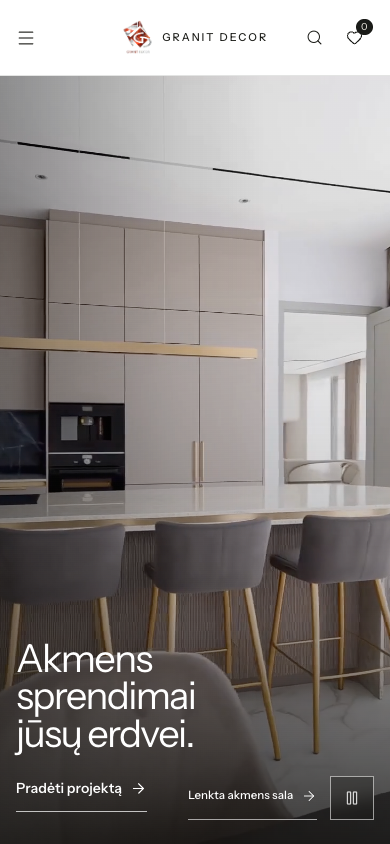
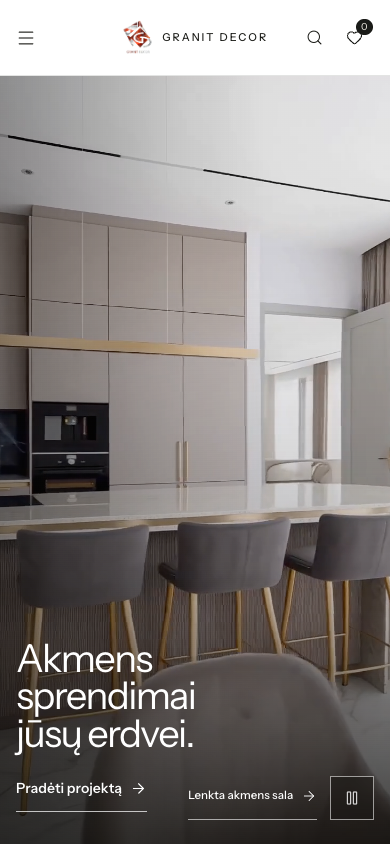
Polish narrow mobile hero actions

diff --git a/src/styles/pages.css b/src/styles/pages.css
@@ -1562,3 +1562,14 @@
     gap: var(--space-7);
   }
 }
+
+@media (max-width: 22rem) and (orientation: portrait) {
+  .home-hero--cinematic .home-hero__copy {
+    right: var(--space-gutter);
+    bottom: calc(env(safe-area-inset-bottom) + 6rem);
+  }
+
+  .home-hero__text-action {
+    margin-top: var(--space-4);
+  }
+}

diff --git a/.migration/qa/final_browser_qa.py b/.migration/qa/final_browser_qa.py
@@ -162,6 +162,25 @@ def check_home_video(page, viewport_name: str) -> None:
         playback_button.get_attribute("aria-label") if playback_button.count() else None,
     )
 
+    primary_action = page.locator(".home-hero__text-action")
+    secondary_action = page.locator(".home-hero__project")
+    if primary_action.count() == 1 and secondary_action.count() == 1 and secondary_action.is_visible():
+        primary_box = element_box(page, ".home-hero__text-action")
+        secondary_box = element_box(page, ".home-hero__project")
+        overlaps = bool(
+            primary_box
+            and secondary_box
+            and primary_box["left"] < secondary_box["right"]
+            and primary_box["right"] > secondary_box["left"]
+            and primary_box["top"] < secondary_box["bottom"]
+            and primary_box["bottom"] > secondary_box["top"]
+        )
+        record(
+            f"{viewport_name}: hero actions do not overlap",
+            not overlaps,
+            {"primary": primary_box, "secondary": secondary_box},
+        )
+
 
 def check_desktop_navigation(page) -> None:
     nav = page.locator(".site-header__nav")

diff --git a/.migration/qa/final-browser-qa.md b/.migration/qa/final-browser-qa.md
@@ -1,8 +1,8 @@
 # Final browser QA
 
 - Base URL: `http://127.0.0.1:4173`
-- Checks: 79
-- Passed: 79
+- Checks: 83
+- Passed: 83
 - Failed: 0
 - Console warnings/errors captured: 0
 - Request failures captured: 88
@@ -13,10 +13,11 @@
 - **PASS** — desktop home: no document horizontal overflow — {"viewportWidth": 1440, "viewportHeight": 900, "documentWidth": 1440, "bodyWidth": 1440, "overflow": false}
 - **PASS** — desktop home: visible H1 — {"count": 1, "text": "Akmens sprendimai\njūsų erdvei."}
 - **PASS** — desktop: hero video exists — 1
-- **PASS** — desktop: correct hero source selected — {"autoplay": true, "muted": true, "loop": true, "playsInline": true, "paused": false, "currentTime": 3.220758, "currentSrc": "http://127.0.0.1:4173/assets/video/granit-decor-kitchen-orbit-v2-desktop-2560.mp4", "readyState": 4, "networkState": 1, "videoWidth": 2560, "videoHeight": 1440, "error": null}
-- **PASS** — desktop: hero autoplay is active — {"autoplay": true, "muted": true, "loop": true, "playsInline": true, "paused": false, "currentTime": 3.220758, "currentSrc": "http://127.0.0.1:4173/assets/video/granit-decor-kitchen-orbit-v2-desktop-2560.mp4", "readyState": 4, "networkState": 1, "videoWidth": 2560, "videoHeight": 1440, "error": null}
+- **PASS** — desktop: correct hero source selected — {"autoplay": true, "muted": true, "loop": true, "playsInline": true, "paused": false, "currentTime": 3.268783, "currentSrc": "http://127.0.0.1:4173/assets/video/granit-decor-kitchen-orbit-v2-desktop-2560.mp4", "readyState": 4, "networkState": 1, "videoWidth": 2560, "videoHeight": 1440, "error": null}
+- **PASS** — desktop: hero autoplay is active — {"autoplay": true, "muted": true, "loop": true, "playsInline": true, "paused": false, "currentTime": 3.268783, "currentSrc": "http://127.0.0.1:4173/assets/video/granit-decor-kitchen-orbit-v2-desktop-2560.mp4", "readyState": 4, "networkState": 1, "videoWidth": 2560, "videoHeight": 1440, "error": null}
 - **PASS** — desktop: hero media fills first viewport width — {"hero": {"x": 0, "y": 118, "width": 1440, "height": 782, "top": 118, "right": 1440, "bottom": 900, "left": 0}, "video": {"x": 0, "y": 118, "width": 1440, "height": 782, "top": 118, "right": 1440, "bottom": 900, "left": 0}, "viewport": {"viewportWidth": 1440, "viewportHeight": 900, "documentWidth": 1440, "bodyWidth": 1440, "overflow": false}}
 - **PASS** — desktop: playback control is visible and named — Sustabdyti animaciją
+- **PASS** — desktop: hero actions do not overlap — {"primary": {"x": 46.078125, "y": 818.515625, "width": 131.03125, "height": 32.890625, "top": 818.515625, "right": 177.109375, "bottom": 851.40625, "left": 46.078125}, "secondary": {"x": 1179.890625, "y": 817.875, "width": 153.234375, "height": 33.53125, "top": 817.875, "right": 1333.125, "bottom": 851.40625, "left": 1179.890625}}
 - **PASS** — desktop: primary navigation visible — 1
 - **PASS** — desktop: Gaminiai dropdown pins and remains selectable — {"images": 8, "loadedImages": 8}
 - **PASS** — desktop: Gaminiai dropdown images loaded — {"images": 8, "loadedImages": 8}
@@ -30,10 +31,11 @@
 - **PASS** — tablet home: no document horizontal overflow — {"viewportWidth": 768, "viewportHeight": 1024, "documentWidth": 768, "bodyWidth": 768, "overflow": false}
 - **PASS** — tablet home: visible H1 — {"count": 1, "text": "Akmens sprendimai\njūsų erdvei."}
 - **PASS** — tablet: hero video exists — 1
-- **PASS** — tablet: correct hero source selected — {"autoplay": true, "muted": true, "loop": true, "playsInline": true, "paused": false, "currentTime": 3.059469, "currentSrc": "http://127.0.0.1:4173/assets/video/granit-decor-kitchen-orbit-v3-mobile-parity-810x1440.mp4", "readyState": 4, "networkState": 1, "videoWidth": 810, "videoHeight": 1440, "error": null}
-- **PASS** — tablet: hero autoplay is active — {"autoplay": true, "muted": true, "loop": true, "playsInline": true, "paused": false, "currentTime": 3.059469, "currentSrc": "http://127.0.0.1:4173/assets/video/granit-decor-kitchen-orbit-v3-mobile-parity-810x1440.mp4", "readyState": 4, "networkState": 1, "videoWidth": 810, "videoHeight": 1440, "error": null}
+- **PASS** — tablet: correct hero source selected — {"autoplay": true, "muted": true, "loop": true, "playsInline": true, "paused": false, "currentTime": 3.21512, "currentSrc": "http://127.0.0.1:4173/assets/video/granit-decor-kitchen-orbit-v3-mobile-parity-810x1440.mp4", "readyState": 4, "networkState": 1, "videoWidth": 810, "videoHeight": 1440, "error": null}
+- **PASS** — tablet: hero autoplay is active — {"autoplay": true, "muted": true, "loop": true, "playsInline": true, "paused": false, "currentTime": 3.21512, "currentSrc": "http://127.0.0.1:4173/assets/video/granit-decor-kitchen-orbit-v3-mobile-parity-810x1440.mp4", "readyState": 4, "networkState": 1, "videoWidth": 810, "videoHeight": 1440, "error": null}
 - **PASS** — tablet: hero media fills first viewport width — {"hero": {"x": 0, "y": 76, "width": 768, "height": 948, "top": 76, "right": 768, "bottom": 1024, "left": 0}, "video": {"x": 0, "y": 76, "width": 768, "height": 948, "top": 76, "right": 768, "bottom": 1024, "left": 0}, "viewport": {"viewportWidth": 768, "viewportHeight": 1024, "documentWidth": 768, "bodyWidth": 768, "overflow": false}}
 - **PASS** — tablet: playback control is visible and named — Sustabdyti animaciją
+- **PASS** — tablet: hero actions do not overlap — {"primary": {"x": 19.1875, "y": 939.921875, "width": 131.03125, "height": 32.890625, "top": 939.921875, "right": 150.21875, "bottom": 972.8125, "left": 19.1875}, "secondary": {"x": 534.765625, "y": 939.28125, "width": 153.234375, "height": 33.53125, "top": 939.28125, "right": 688, "bottom": 972.8125, "left": 534.765625}}
 - **PASS** — tablet: menu button visible — 1
 - **PASS** — tablet: mobile menu opens — dialog.open
 - **PASS** — tablet: Gaminiai submenu has compact visual guidance — {"section": "Gaminiai", "tiles": 8, "images": 8, "loadedImages": 8}
@@ -43,10 +45,11 @@
 - **PASS** — mobile home: no document horizontal overflow — {"viewportWidth": 390, "viewportHeight": 844, "documentWidth": 390, "bodyWidth": 390, "overflow": false}
 - **PASS** — mobile home: visible H1 — {"count": 1, "text": "Akmens sprendimai\njūsų erdvei."}
 - **PASS** — mobile: hero video exists — 1
-- **PASS** — mobile: correct hero source selected — {"autoplay": true, "muted": true, "loop": true, "playsInline": true, "paused": false, "currentTime": 3.203043, "currentSrc": "http://127.0.0.1:4173/assets/video/granit-decor-kitchen-orbit-v3-mobile-parity-810x1440.mp4", "readyState": 4, "networkState": 1, "videoWidth": 810, "videoHeight": 1440, "error": null}
-- **PASS** — mobile: hero autoplay is active — {"autoplay": true, "muted": true, "loop": true, "playsInline": true, "paused": false, "currentTime": 3.203043, "currentSrc": "http://127.0.0.1:4173/assets/video/granit-decor-kitchen-orbit-v3-mobile-parity-810x1440.mp4", "readyState": 4, "networkState": 1, "videoWidth": 810, "videoHeight": 1440, "error": null}
+- **PASS** — mobile: correct hero source selected — {"autoplay": true, "muted": true, "loop": true, "playsInline": true, "paused": false, "currentTime": 3.379136, "currentSrc": "http://127.0.0.1:4173/assets/video/granit-decor-kitchen-orbit-v3-mobile-parity-810x1440.mp4", "readyState": 4, "networkState": 1, "videoWidth": 810, "videoHeight": 1440, "error": null}
+- **PASS** — mobile: hero autoplay is active — {"autoplay": true, "muted": true, "loop": true, "playsInline": true, "paused": false, "currentTime": 3.379136, "currentSrc": "http://127.0.0.1:4173/assets/video/granit-decor-kitchen-orbit-v3-mobile-parity-810x1440.mp4", "readyState": 4, "networkState": 1, "videoWidth": 810, "videoHeight": 1440, "error": null}
 - **PASS** — mobile: hero media fills first viewport width — {"hero": {"x": 0, "y": 76, "width": 390, "height": 768, "top": 76, "right": 390, "bottom": 844, "left": 0}, "video": {"x": 0, "y": 76, "width": 390, "height": 768, "top": 76, "right": 390, "bottom": 844, "left": 0}, "viewport": {"viewportWidth": 390, "viewportHeight": 844, "documentWidth": 390, "bodyWidth": 390, "overflow": false}}
 - **PASS** — mobile: playback control is visible and named — Sustabdyti animaciją
+- **PASS** — mobile: hero actions do not overlap — {"primary": {"x": 16, "y": 768, "width": 131.03125, "height": 44, "top": 768, "right": 147.03125, "bottom": 812, "left": 16}, "secondary": {"x": 188.25, "y": 776, "width": 128.953125, "height": 44, "top": 776, "right": 317.203125, "bottom": 820, "left": 188.25}}
 - **PASS** — mobile: menu button visible — 1
 - **PASS** — mobile: mobile menu opens — dialog.open
 - **PASS** — mobile: Gaminiai submenu has compact visual guidance — {"section": "Gaminiai", "tiles": 8, "images": 8, "loadedImages": 8}
@@ -56,10 +59,11 @@
 - **PASS** — narrow home: no document horizontal overflow — {"viewportWidth": 320, "viewportHeight": 700, "documentWidth": 320, "bodyWidth": 320, "overflow": false}
 - **PASS** — narrow home: visible H1 — {"count": 1, "text": "Akmens sprendimai\njūsų erdvei."}
 - **PASS** — narrow: hero video exists — 1
-- **PASS** — narrow: correct hero source selected — {"autoplay": true, "muted": true, "loop": true, "playsInline": true, "paused": false, "currentTime": 2.891371, "currentSrc": "http://127.0.0.1:4173/assets/video/granit-decor-kitchen-orbit-v3-mobile-parity-810x1440.mp4", "readyState": 4, "networkState": 1, "videoWidth": 810, "videoHeight": 1440, "error": null}
-- **PASS** — narrow: hero autoplay is active — {"autoplay": true, "muted": true, "loop": true, "playsInline": true, "paused": false, "currentTime": 2.891371, "currentSrc": "http://127.0.0.1:4173/assets/video/granit-decor-kitchen-orbit-v3-mobile-parity-810x1440.mp4", "readyState": 4, "networkState": 1, "videoWidth": 810, "videoHeight": 1440, "error": null}
+- **PASS** — narrow: correct hero source selected — {"autoplay": true, "muted": true, "loop": true, "playsInline": true, "paused": false, "currentTime": 3.213894, "currentSrc": "http://127.0.0.1:4173/assets/video/granit-decor-kitchen-orbit-v3-mobile-parity-810x1440.mp4", "readyState": 4, "networkState": 1, "videoWidth": 810, "videoHeight": 1440, "error": null}
+- **PASS** — narrow: hero autoplay is active — {"autoplay": true, "muted": true, "loop": true, "playsInline": true, "paused": false, "currentTime": 3.213894, "currentSrc": "http://127.0.0.1:4173/assets/video/granit-decor-kitchen-orbit-v3-mobile-parity-810x1440.mp4", "readyState": 4, "networkState": 1, "videoWidth": 810, "videoHeight": 1440, "error": null}
 - **PASS** — narrow: hero media fills first viewport width — {"hero": {"x": 0, "y": 76, "width": 320, "height": 624, "top": 76, "right": 320, "bottom": 700, "left": 0}, "video": {"x": 0, "y": 76, "width": 320, "height": 624, "top": 76, "right": 320, "bottom": 700, "left": 0}, "viewport": {"viewportWidth": 320, "viewportHeight": 700, "documentWidth": 320, "bodyWidth": 320, "overflow": false}}
 - **PASS** — narrow: playback control is visible and named — Sustabdyti animaciją
+- **PASS** — narrow: hero actions do not overlap — {"primary": {"x": 16, "y": 560, "width": 131.03125, "height": 44, "top": 560, "right": 147.03125, "bottom": 604, "left": 16}, "secondary": {"x": 118.25, "y": 632, "width": 128.953125, "height": 44, "top": 632, "right": 247.203125, "bottom": 676, "left": 118.25}}
 - **PASS** — narrow: menu button visible — 1
 - **PASS** — narrow: mobile menu opens — dialog.open
 - **PASS** — narrow: Gaminiai submenu has compact visual guidance — {"section": "Gaminiai", "tiles": 8, "images": 8, "loadedImages": 8}
@@ -103,8 +107,8 @@ PDF · 1 KB
 - `desktop` HEAD http://127.0.0.1:4173/projektas/ — net::ERR_ABORTED
 - `desktop` HEAD http://127.0.0.1:4173/projektai/ — net::ERR_ABORTED
 - `desktop` HEAD http://127.0.0.1:4173/gaminiai/virtuves-stalvirsiai/ — net::ERR_ABORTED
-- `desktop` HEAD http://127.0.0.1:4173/gaminiai/vonios-stalvirsiai/ — net::ERR_ABORTED
 - `desktop` HEAD http://127.0.0.1:4173/gaminiai/zidiniu-apdaila/ — net::ERR_ABORTED
+- `desktop` HEAD http://127.0.0.1:4173/gaminiai/vonios-stalvirsiai/ — net::ERR_ABORTED
 - `desktop` HEAD http://127.0.0.1:4173/gaminiai/sienu-apdaila/ — net::ERR_ABORTED
 - `desktop` HEAD http://127.0.0.1:4173/gaminiai/ — net::ERR_ABORTED
 - `desktop` HEAD http://127.0.0.1:4173/akmuo/?tipas=granitas — net::ERR_ABORTED
@@ -113,8 +117,8 @@ PDF · 1 KB
 - `desktop` HEAD http://127.0.0.1:4173/akmuo/?tipas=oniksas — net::ERR_ABORTED
 - `desktop` HEAD http://127.0.0.1:4173/akmuo/ — net::ERR_ABORTED
 - `desktop` HEAD http://127.0.0.1:4173/projektai/granit-decor-darbai-25/ — net::ERR_ABORTED
-- `desktop` HEAD http://127.0.0.1:4173/projektai/granit-decor-darbai-03/ — net::ERR_ABORTED
 - `desktop` HEAD http://127.0.0.1:4173/projektai/granit-decor-darbai-30/ — net::ERR_ABORTED
+- `desktop` HEAD http://127.0.0.1:4173/projektai/granit-decor-darbai-03/ — net::ERR_ABORTED
 - `desktop` HEAD http://127.0.0.1:4173/projektai/granit-decor-darbai-24/ — net::ERR_ABORTED
 - `desktop` HEAD http://127.0.0.1:4173/kaip-dirbame/ — net::ERR_ABORTED
 - `tablet` HEAD http://127.0.0.1:4173/ — net::ERR_ABORTED
@@ -128,8 +132,8 @@ PDF · 1 KB
 - `tablet` HEAD http://127.0.0.1:4173/kontaktai/ — net::ERR_ABORTED
 - `tablet` HEAD http://127.0.0.1:4173/memorialai/ — net::ERR_ABORTED
 - `tablet` HEAD http://127.0.0.1:4173/gaminiai/ — net::ERR_ABORTED
-- `tablet` HEAD http://127.0.0.1:4173/akmuo/?tipas=travertinas — net::ERR_ABORTED
 - `tablet` HEAD http://127.0.0.1:4173/akmuo/?tipas=granitas — net::ERR_ABORTED
+- `tablet` HEAD http://127.0.0.1:4173/akmuo/?tipas=travertinas — net::ERR_ABORTED
 - `tablet` HEAD http://127.0.0.1:4173/akmuo/ — net::ERR_ABORTED
 - `tablet` HEAD http://127.0.0.1:4173/akmuo/?rodyti=issaugoti — net::ERR_ABORTED
 - `mobile` HEAD http://127.0.0.1:4173/ — net::ERR_ABORTED
@@ -137,29 +141,29 @@ PDF · 1 KB
 - `mobile` HEAD http://127.0.0.1:4173/projektai/ — net::ERR_ABORTED
 - `mobile` HEAD http://127.0.0.1:4173/gaminiai/virtuves-stalvirsiai/ — net::ERR_ABORTED
 - `mobile` HEAD http://127.0.0.1:4173/gaminiai/vonios-stalvirsiai/ — net::ERR_ABORTED
+- `mobile` HEAD http://127.0.0.1:4173/kontaktai/ — net::ERR_ABORTED
 - `mobile` HEAD http://127.0.0.1:4173/profesionalams/ — net::ERR_ABORTED
 - `mobile` HEAD http://127.0.0.1:4173/apie-mus/ — net::ERR_ABORTED
-- `mobile` HEAD http://127.0.0.1:4173/kontaktai/ — net::ERR_ABORTED
 - `mobile` HEAD http://127.0.0.1:4173/memorialai/ — net::ERR_ABORTED
 - `mobile` HEAD http://127.0.0.1:4173/gaminiai/ — net::ERR_ABORTED
 - `mobile` HEAD http://127.0.0.1:4173/akmuo/?tipas=granitas — net::ERR_ABORTED
-- `mobile` HEAD http://127.0.0.1:4173/akmuo/?tipas=travertinas — net::ERR_ABORTED
 - `mobile` HEAD http://127.0.0.1:4173/akmuo/?tipas=kvarcitas — net::ERR_ABORTED
+- `mobile` HEAD http://127.0.0.1:4173/akmuo/?tipas=travertinas — net::ERR_ABORTED
 - `mobile` HEAD http://127.0.0.1:4173/akmuo/ — net::ERR_ABORTED
 - `narrow` HEAD http://127.0.0.1:4173/ — net::ERR_ABORTED
 - `narrow` HEAD http://127.0.0.1:4173/projektas/ — net::ERR_ABORTED
 - `narrow` HEAD http://127.0.0.1:4173/projektai/ — net::ERR_ABORTED
 - `narrow` HEAD http://127.0.0.1:4173/gaminiai/virtuves-stalvirsiai/ — net::ERR_ABORTED
 - `narrow` HEAD http://127.0.0.1:4173/gaminiai/vonios-stalvirsiai/ — net::ERR_ABORTED
-- `narrow` HEAD http://127.0.0.1:4173/profesionalams/ — net::ERR_ABORTED
-- `narrow` HEAD http://127.0.0.1:4173/apie-mus/ — net::ERR_ABORTED
 - `narrow` HEAD http://127.0.0.1:4173/kontaktai/ — net::ERR_ABORTED
 - `narrow` HEAD http://127.0.0.1:4173/memorialai/ — net::ERR_ABORTED
+- `narrow` HEAD http://127.0.0.1:4173/apie-mus/ — net::ERR_ABORTED
+- `narrow` HEAD http://127.0.0.1:4173/profesionalams/ — net::ERR_ABORTED
 - `narrow` HEAD http://127.0.0.1:4173/gaminiai/ — net::ERR_ABORTED
-- `narrow` HEAD http://127.0.0.1:4173/akmuo/?tipas=granitas — net::ERR_ABORTED
 - `narrow` HEAD http://127.0.0.1:4173/akmuo/?tipas=kvarcitas — net::ERR_ABORTED
-- `narrow` HEAD http://127.0.0.1:4173/akmuo/ — net::ERR_ABORTED
 - `narrow` HEAD http://127.0.0.1:4173/akmuo/?tipas=travertinas — net::ERR_ABORTED
+- `narrow` HEAD http://127.0.0.1:4173/akmuo/?tipas=granitas — net::ERR_ABORTED
+- `narrow` HEAD http://127.0.0.1:4173/akmuo/ — net::ERR_ABORTED
 - `routes-mobile` HEAD http://127.0.0.1:4173/ — net::ERR_ABORTED
 - `routes-mobile` HEAD http://127.0.0.1:4173/akmuo/ — net::ERR_ABORTED
 - `routes-mobile` HEAD http://127.0.0.1:4173/akmuo/?tipas=marmuras — net::ERR_ABORTED

diff --git a/.migration/qa/visual-review.md b/.migration/qa/visual-review.md
@@ -1,0 +1,16 @@
+# Responsive visual review
+
+The post-fix production-browser sweep passed 83 of 83 checks. A separate visual review of the refreshed captures confirms that the narrow hero action collision is resolved without visible regressions at the wider viewports.
+
+## Narrow hero action separation
+
+- Viewport: `320 × 700`
+- Evidence: `home-narrow.png`
+- The primary action (`Pradėti projektą`) now occupies an upper row and the secondary project caption (`Lenkta akmens sala`) occupies a distinct lower row beside the playback control.
+- Measured primary bounds: `x 16–147`, `y 560–604`.
+- Measured secondary bounds: `x 118–247`, `y 632–676`.
+- Vertical clearance between the two interactive bounds: `28 px`.
+- Both actions remain visible, legible, and inside the viewport.
+- The `390 × 844`, tablet, and desktop captures retain their prior composition and also pass the new overlap check.
+
+No production or locked file was changed during this verification task; only the QA harness and generated audit artifacts were updated.
